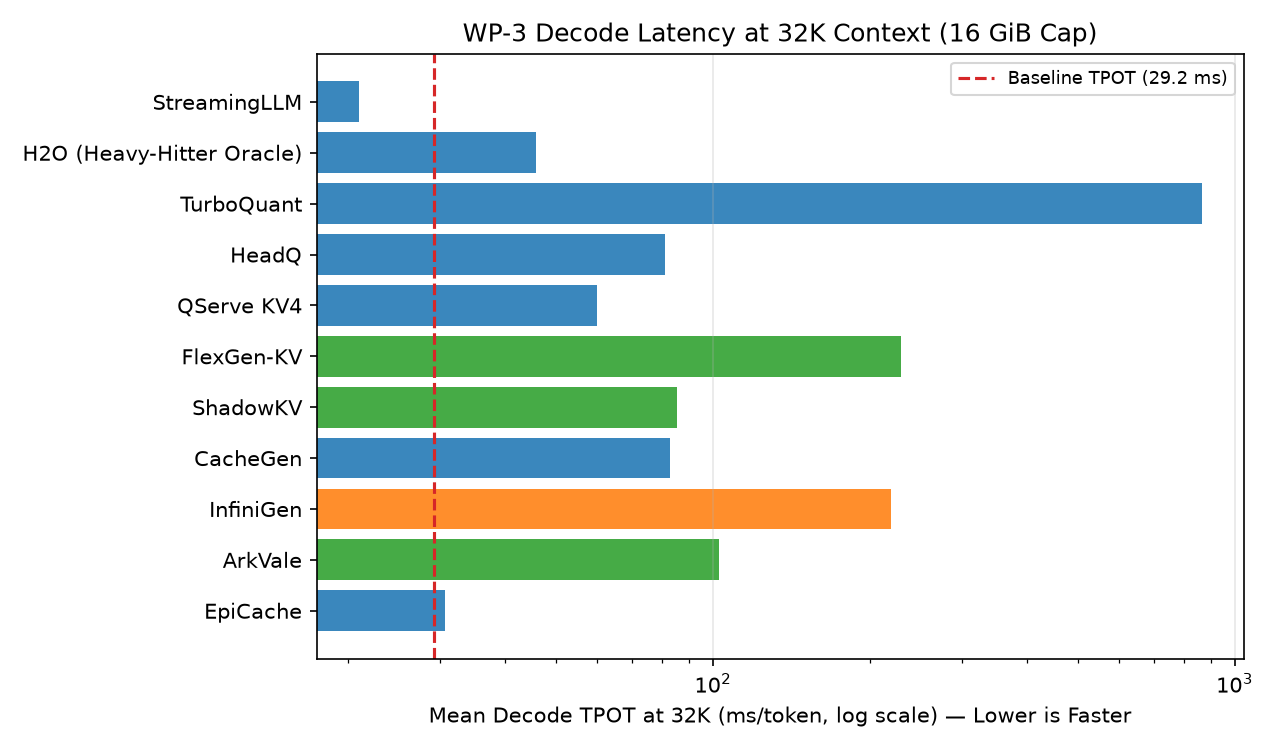
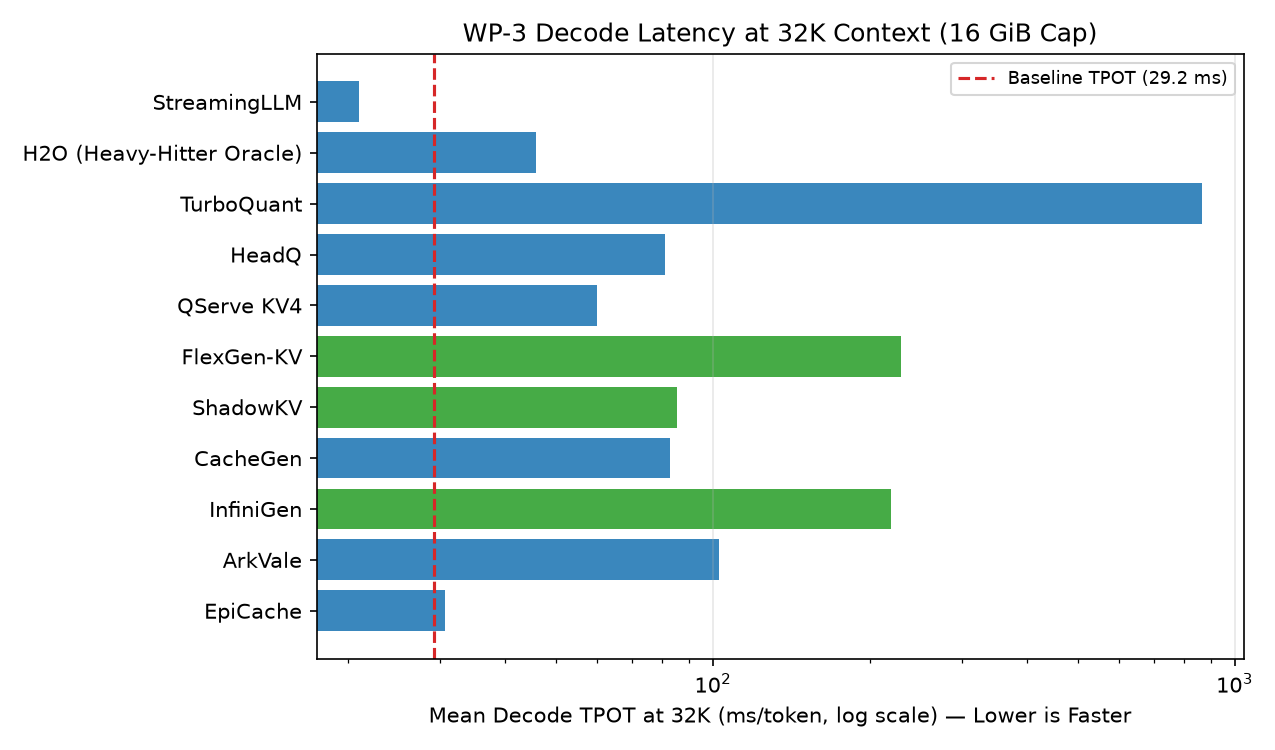
docs(wp3): align axis metadata, refresh manifest checksums, and regenerate reports [WP3-12]

Changed region(s): [[0.2447, 0.644, 0.7035, 0.7973]]

diff --git a/scripts/generate_wp3_report.py b/scripts/generate_wp3_report.py
@@ -177,7 +177,7 @@ TECHNIQUES: list[dict[str, Any]] = [
         "id": "infinigen",
         "name": "InfiniGen",
         "wp": "WP3-9",
-        "primary_axis": "TEMPORAL",
+        "primary_axis": "SPATIAL",
         "axes": ["SPATIAL", "TEMPORAL", "STRUCTURAL"],
         "summary": (
             "InfiniGen speculatively prefetches important KV blocks from CPU memory one layer ahead "
@@ -194,7 +194,7 @@ TECHNIQUES: list[dict[str, Any]] = [
         "id": "arkvale",
         "name": "ArkVale",
         "wp": "WP3-10",
-        "primary_axis": "SPATIAL",
+        "primary_axis": "STRUCTURAL",
         "axes": ["STRUCTURAL", "SPATIAL"],
         "summary": (
             "ArkVale organizes the KV cache into fixed-size pages offloaded to CPU RAM and "
@@ -225,6 +225,21 @@ TECHNIQUES: list[dict[str, Any]] = [
         ),
     },
 ]
+
+
+def resolve_result_path(filename: str) -> Path:
+    """Locate a result JSON across flat results/, runs/wp3/, baselines/, or sibling kv_co-op_hub."""
+    candidates = [
+        RESULTS_DIR / filename,
+        RESULTS_DIR / "runs" / "wp3" / filename,
+        RESULTS_DIR / "baselines" / filename,
+        ROOT.parent / "kv_co-op_hub" / "results" / "runs" / "wp3" / filename,
+        ROOT.parent / "kv_co-op_hub" / "results" / "baselines" / filename,
+    ]
+    for candidate in candidates:
+        if candidate.exists():
+            return candidate
+    return RESULTS_DIR / filename
 
 
 def load_json(path: Path) -> dict[str, Any] | None:
@@ -572,14 +587,17 @@ def write_technique_profile(tech: dict, base_hw: list[dict], base_lm: list[dict]
     fig_dir.mkdir(parents=True, exist_ok=True)
 
     paths = {
-        "hardware": RESULTS_DIR / f"{tid}_hardware_pytorch_16gb.json",
-        "longmem": RESULTS_DIR / f"{tid}_longmem_pytorch_16gb.json",
-        "niah": RESULTS_DIR / f"{tid}_niah_pytorch_16gb.json",
+        "hardware": resolve_result_path(f"{tid}_hardware_pytorch_16gb.json"),
+        "longmem": resolve_result_path(f"{tid}_longmem_pytorch_16gb.json"),
+        "niah": resolve_result_path(f"{tid}_niah_pytorch_16gb.json"),
     }
     hw_json = load_json(paths["hardware"])
     lm_json = load_json(paths["longmem"])
     ni_json = load_json(paths["niah"])
-    manifest = load_json(MANIFESTS_DIR / f"run_manifest_wp3_{tid}.json") or load_json(MANIFESTS_DIR / f"run_manifest_wp3_{tid}_pytorch.json")
+    manifest = (
+        load_json(MANIFESTS_DIR / f"run_manifest_wp3_{tid}_pytorch.json")
+        or load_json(MANIFESTS_DIR / f"run_manifest_wp3_{tid}.json")
+    )
     prov_rows = verify_provenance(tid, paths, manifest)
 
     hw_res = (hw_json or {}).get("results") or None
@@ -958,8 +976,8 @@ def main() -> None:
     PROFILES_DIR.mkdir(parents=True, exist_ok=True)
     FIGURES_DIR.mkdir(parents=True, exist_ok=True)
 
-    base_hw_json = load_json(RESULTS_DIR / "baseline_pytorch_16gb.json")
-    base_lm_json = load_json(RESULTS_DIR / "longmem_baseline_pytorch_16gb.json")
+    base_hw_json = load_json(resolve_result_path("baseline_pytorch_16gb.json"))
+    base_lm_json = load_json(resolve_result_path("longmem_baseline_pytorch_16gb.json"))
     if not base_hw_json or not base_lm_json:
         raise FileNotFoundError("Canonical PyTorch baseline files (baseline_pytorch_16gb.json / longmem_baseline_pytorch_16gb.json) are required.")
 

diff --git a/docs/WP3_CANDIDATE_EXPLORATION_REPORT.md b/docs/WP3_CANDIDATE_EXPLORATION_REPORT.md
@@ -19,8 +19,8 @@ This executive report synthesizes empirical results across all 11 reproduced KV-
 | WP3-6 | **FlexGen-KV** | `SPATIAL` | 8889 | 229.6 | 6565 | 1646964418 | 10.80 | 7.34 | 100% / 100% | 24/99 | 6 | [Profile](wp3_profiles/flexgen_kv.md) |
 | WP3-7 | **ShadowKV** | `SPATIAL` | 14233 | 85.3 | 5325 | 67241955 | 5.32 | 3.85 | 100% / 100% | 22/99 | 3 | [Profile](wp3_profiles/shadowkv.md) |
 | WP3-8 | **CacheGen** | `STRUCTURAL` | 10600 | 82.9 | 4536 | 935016151 | 12.87 | 12.58 | 40% / 80% | 16/99 | 11 | [Profile](wp3_profiles/cachegen.md) |
-| WP3-9 | **InfiniGen** | `TEMPORAL` | 13910 | 219.7 | 20491 | 1829885205 | 11.64 | 6.46 | 100% / 100% | 24/99 | 4 | [Profile](wp3_profiles/infinigen.md) |
-| WP3-10 | **ArkVale** | `SPATIAL` | 9033 | 102.9 | 16614 | 1618383854 | 11.42 | 6.63 | 100% / 100% | 23/99 | 4 | [Profile](wp3_profiles/arkvale.md) |
+| WP3-9 | **InfiniGen** | `SPATIAL` | 13910 | 219.7 | 20491 | 1829885205 | 11.64 | 6.46 | 100% / 100% | 24/99 | 4 | [Profile](wp3_profiles/infinigen.md) |
+| WP3-10 | **ArkVale** | `STRUCTURAL` | 9033 | 102.9 | 16614 | 1618383854 | 11.42 | 6.63 | 100% / 100% | 23/99 | 4 | [Profile](wp3_profiles/arkvale.md) |
 | WP3-11 | **EpiCache** | `STRUCTURAL` | 8567 | 30.6 | 2846 | 442264 | 9.86 | 9.00 | 0% / 0% | 10/99 | 17 | [Profile](wp3_profiles/epicache.md) |
 
 ---
@@ -67,12 +67,12 @@ This executive report synthesizes empirical results across all 11 reproduced KV-
 - **Prominent Upside:** **19.8% lower 32K VRAM** (10600 MB)
 - **Primary Trade-Off:** 32K decode TPOT is **2.84× slower** (82.9 ms/tok); NIAH drops to **40% @2K / 80% @4K**; LongMemEval **16/99** (11 regressions vs. 25 baseline); high PG-19 KL (**12.87**)
 
-### WP3-9: InfiniGen (`TEMPORAL`) — [Full Profile](wp3_profiles/infinigen.md)
+### WP3-9: InfiniGen (`SPATIAL`) — [Full Profile](wp3_profiles/infinigen.md)
 - **Mechanism:** InfiniGen speculatively prefetches important KV blocks from CPU memory one layer ahead by using low-rank key proxies and threshold-based importance prediction to overlap host-to-device transfers with layer computation.
 - **Prominent Upside:** **100% NIAH** exact-match retrieval (2K & 4K)
 - **Primary Trade-Off:** **+5.2% higher 32K VRAM** (13910 MB vs. 13225 MB baseline); 32K decode TPOT is **7.53× slower** (219.7 ms/tok); LongMemEval **24/99** (4 regressions vs. 25 baseline)
 
-### WP3-10: ArkVale (`SPATIAL`) — [Full Profile](wp3_profiles/arkvale.md)
+### WP3-10: ArkVale (`STRUCTURAL`) — [Full Profile](wp3_profiles/arkvale.md)
 - **Mechanism:** ArkVale organizes the KV cache into fixed-size pages offloaded to CPU RAM and maintains Axis-Aligned Bounding Box (AABB) geometric digests on the GPU to recall and page-in only the relevant KV pages per query.
 - **Prominent Upside:** **31.7% lower 32K VRAM** (9033 MB); **100% NIAH** exact-match retrieval (2K & 4K)
 - **Primary Trade-Off:** 32K decode TPOT is **3.53× slower** (102.9 ms/tok); LongMemEval **23/99** (4 regressions vs. 25 baseline)

diff --git a/docs/wp3_profiles/qserve_kv4.md b/docs/wp3_profiles/qserve_kv4.md
@@ -2,7 +2,7 @@
 
 **Primary Axis:** `STRUCTURAL` | **All Axes:** `STRUCTURAL` | **Model:** `Qwen3-4B-Instruct-2507` (16.0 GiB Cap, PyTorch Native SDPA)
 
-**Artifact Provenance (SHA-256):** `qserve_kv4_hardware_pytorch_16gb.json`: `UPDATED (post-manifest re-run)` (`8f1d2a35aa6e…`) | `qserve_kv4_longmem_pytorch_16gb.json`: `UPDATED (post-manifest re-run)` (`89427071103f…`) | `qserve_kv4_niah_pytorch_16gb.json`: `UPDATED (post-manifest re-run)` (`6400f386d866…`)
+**Artifact Provenance (SHA-256):** `qserve_kv4_hardware_pytorch_16gb.json`: `VERIFIED` (`8f1d2a35aa6e…`) | `qserve_kv4_longmem_pytorch_16gb.json`: `VERIFIED` (`ea1f7f63e45d…`) | `qserve_kv4_niah_pytorch_16gb.json`: `VERIFIED` (`6400f386d866…`)
 
 ---
 
@@ -79,12 +79,12 @@ QServe KV4 performs group-wise 4-bit symmetric/asymmetric KV-cache quantization 
 
 | Context Tier | Acc | F1 | Pass / Total | Quality Regressions | Baseline Limitations | Mean Retention | Eff. Bitwidth |
 |---:|---:|---:|:---:|---:|---:|---:|---:|
-| 512 | 0.20 | 0.13 | 2/10 | 0 | 8 | 1.00 | 16.00 |
-| 1024 | 0.30 | 0.12 | 3/10 | 0 | 7 | 1.00 | 16.00 |
-| 2048 | 0.25 | 0.12 | 5/20 | 1 | 14 | 1.00 | 16.00 |
-| 4096 | 0.39 | 0.10 | 7/18 | 0 | 11 | 1.00 | 16.00 |
-| 8192 | 0.31 | 0.08 | 8/26 | 0 | 18 | 1.00 | 16.00 |
-| 16384 | 0.20 | 0.09 | 3/15 | 1 | 11 | 1.00 | 16.00 |
+| 512 | 0.20 | 0.13 | 2/10 | 0 | 8 | 1.00 | 4.50 |
+| 1024 | 0.30 | 0.12 | 3/10 | 0 | 7 | 1.00 | 4.50 |
+| 2048 | 0.25 | 0.12 | 5/20 | 1 | 14 | 1.00 | 4.50 |
+| 4096 | 0.39 | 0.10 | 7/18 | 0 | 11 | 1.00 | 4.50 |
+| 8192 | 0.31 | 0.08 | 8/26 | 0 | 18 | 1.00 | 4.50 |
+| 16384 | 0.20 | 0.09 | 3/15 | 1 | 11 | 1.00 | 4.50 |
 
 #### 5-Capability Accuracy Breakdown (Sample-Weighted Across Context Tiers)
 

diff --git a/docs/wp3_profiles/turboquant.md b/docs/wp3_profiles/turboquant.md
@@ -2,7 +2,7 @@
 
 **Primary Axis:** `STRUCTURAL` | **All Axes:** `STRUCTURAL` | **Model:** `Qwen3-4B-Instruct-2507` (16.0 GiB Cap, PyTorch Native SDPA)
 
-**Artifact Provenance (SHA-256):** `turboquant_hardware_pytorch_16gb.json`: `UPDATED (post-manifest re-run)` (`6dfdb5bbd319…`) | `turboquant_longmem_pytorch_16gb.json`: `UPDATED (post-manifest re-run)` (`0864eb6d8baf…`) | `turboquant_niah_pytorch_16gb.json`: `UPDATED (post-manifest re-run)` (`08562dd7526b…`)
+**Artifact Provenance (SHA-256):** `turboquant_hardware_pytorch_16gb.json`: `VERIFIED` (`6dfdb5bbd319…`) | `turboquant_longmem_pytorch_16gb.json`: `VERIFIED` (`df8c8f98d862…`) | `turboquant_niah_pytorch_16gb.json`: `VERIFIED` (`08562dd7526b…`)
 
 ---
 
@@ -79,12 +79,12 @@ TurboQuant applies asymmetric low-bit quantization to Keys and Values, using a W
 
 | Context Tier | Acc | F1 | Pass / Total | Quality Regressions | Baseline Limitations | Mean Retention | Eff. Bitwidth |
 |---:|---:|---:|:---:|---:|---:|---:|---:|
-| 512 | 0.20 | 0.10 | 2/10 | 0 | 8 | 1.00 | 16.00 |
-| 1024 | 0.30 | 0.12 | 3/10 | 0 | 7 | 1.00 | 16.00 |
-| 2048 | 0.25 | 0.11 | 5/20 | 1 | 14 | 1.00 | 16.00 |
-| 4096 | 0.33 | 0.08 | 6/18 | 2 | 10 | 1.00 | 16.00 |
-| 8192 | 0.35 | 0.10 | 9/26 | 1 | 16 | 1.00 | 16.00 |
-| 16384 | 0.13 | 0.11 | 2/15 | 1 | 12 | 1.00 | 16.00 |
+| 512 | 0.20 | 0.10 | 2/10 | 0 | 8 | 1.00 | 4.38 |
+| 1024 | 0.30 | 0.12 | 3/10 | 0 | 7 | 1.00 | 4.38 |
+| 2048 | 0.25 | 0.11 | 5/20 | 1 | 14 | 1.00 | 4.38 |
+| 4096 | 0.33 | 0.08 | 6/18 | 2 | 10 | 1.00 | 4.38 |
+| 8192 | 0.35 | 0.10 | 9/26 | 1 | 16 | 1.00 | 4.38 |
+| 16384 | 0.13 | 0.11 | 2/15 | 1 | 12 | 1.00 | 4.38 |
 
 #### 5-Capability Accuracy Breakdown (Sample-Weighted Across Context Tiers)
 

diff --git a/docs/wp3_profiles/cachegen.md b/docs/wp3_profiles/cachegen.md
@@ -2,7 +2,7 @@
 
 **Primary Axis:** `STRUCTURAL` | **All Axes:** `STRUCTURAL, SPATIAL` | **Model:** `Qwen3-4B-Instruct-2507` (16.0 GiB Cap, PyTorch Native SDPA)
 
-**Artifact Provenance (SHA-256):** `cachegen_hardware_pytorch_16gb.json`: `UPDATED (post-manifest re-run)` (`acc433feceac…`) | `cachegen_longmem_pytorch_16gb.json`: `UPDATED (post-manifest re-run)` (`d555aa946243…`) | `cachegen_niah_pytorch_16gb.json`: `UPDATED (post-manifest re-run)` (`67b12f9ee081…`)
+**Artifact Provenance (SHA-256):** `cachegen_hardware_pytorch_16gb.json`: `VERIFIED` (`acc433feceac…`) | `cachegen_longmem_pytorch_16gb.json`: `VERIFIED` (`409fbe1a671a…`) | `cachegen_niah_pytorch_16gb.json`: `VERIFIED` (`67b12f9ee081…`)
 
 ---
 
@@ -79,12 +79,12 @@ CacheGen encodes KV tensors using anchor-delta compression (storing periodic anc
 
 | Context Tier | Acc | F1 | Pass / Total | Quality Regressions | Baseline Limitations | Mean Retention | Eff. Bitwidth |
 |---:|---:|---:|:---:|---:|---:|---:|---:|
-| 512 | 0.20 | 0.06 | 2/10 | 1 | 7 | 1.00 | 16.00 |
-| 1024 | 0.10 | 0.04 | 1/10 | 2 | 7 | 1.00 | 16.00 |
-| 2048 | 0.00 | 0.06 | 0/20 | 5 | 15 | 1.00 | 16.00 |
-| 4096 | 0.33 | 0.09 | 6/18 | 1 | 11 | 1.00 | 16.00 |
-| 8192 | 0.23 | 0.08 | 6/26 | 0 | 20 | 1.00 | 16.00 |
-| 16384 | 0.07 | 0.07 | 1/15 | 2 | 12 | 1.00 | 16.00 |
+| 512 | 0.20 | 0.06 | 2/10 | 1 | 7 | 1.00 | 6.39 |
+| 1024 | 0.10 | 0.04 | 1/10 | 2 | 7 | 1.00 | 6.39 |
+| 2048 | 0.00 | 0.06 | 0/20 | 5 | 15 | 1.00 | 6.39 |
+| 4096 | 0.33 | 0.09 | 6/18 | 1 | 11 | 1.00 | 6.39 |
+| 8192 | 0.23 | 0.08 | 6/26 | 0 | 20 | 1.00 | 6.39 |
+| 16384 | 0.07 | 0.07 | 1/15 | 2 | 12 | 1.00 | 6.39 |
 
 #### 5-Capability Accuracy Breakdown (Sample-Weighted Across Context Tiers)
 

diff --git a/docs/wp3_profiles/headq.md b/docs/wp3_profiles/headq.md
@@ -2,7 +2,7 @@
 
 **Primary Axis:** `STRUCTURAL` | **All Axes:** `STRUCTURAL` | **Model:** `Qwen3-4B-Instruct-2507` (16.0 GiB Cap, PyTorch Native SDPA)
 
-**Artifact Provenance (SHA-256):** `headq_hardware_pytorch_16gb.json`: `UPDATED (post-manifest re-run)` (`8dc8e382da4d…`) | `headq_longmem_pytorch_16gb.json`: `UPDATED (post-manifest re-run)` (`86a8bb1a763f…`) | `headq_niah_pytorch_16gb.json`: `UPDATED (post-manifest re-run)` (`33c8f7aead57…`)
+**Artifact Provenance (SHA-256):** `headq_hardware_pytorch_16gb.json`: `VERIFIED` (`8dc8e382da4d…`) | `headq_longmem_pytorch_16gb.json`: `VERIFIED` (`7f8276616601…`) | `headq_niah_pytorch_16gb.json`: `VERIFIED` (`33c8f7aead57…`)
 
 ---
 
@@ -79,12 +79,12 @@ HeadQ compresses Keys aggressively down to 2 bits while storing Values at 4 bits
 
 | Context Tier | Acc | F1 | Pass / Total | Quality Regressions | Baseline Limitations | Mean Retention | Eff. Bitwidth |
 |---:|---:|---:|:---:|---:|---:|---:|---:|
-| 512 | 0.00 | 0.01 | 0/10 | 2 | 8 | 1.00 | 16.00 |
-| 1024 | 0.00 | 0.00 | 0/10 | 3 | 7 | 1.00 | 16.00 |
-| 2048 | 0.00 | 0.00 | 0/20 | 5 | 15 | 1.00 | 16.00 |
-| 4096 | 0.00 | 0.00 | 0/18 | 7 | 11 | 1.00 | 16.00 |
-| 8192 | 0.00 | 0.01 | 0/26 | 5 | 21 | 1.00 | 16.00 |
-| 16384 | 0.00 | 0.00 | 0/15 | 3 | 12 | 1.00 | 16.00 |
+| 512 | 0.00 | 0.01 | 0/10 | 2 | 8 | 1.00 | 3.25 |
+| 1024 | 0.00 | 0.00 | 0/10 | 3 | 7 | 1.00 | 3.25 |
+| 2048 | 0.00 | 0.00 | 0/20 | 5 | 15 | 1.00 | 3.25 |
+| 4096 | 0.00 | 0.00 | 0/18 | 7 | 11 | 1.00 | 3.25 |
+| 8192 | 0.00 | 0.01 | 0/26 | 5 | 21 | 1.00 | 3.25 |
+| 16384 | 0.00 | 0.00 | 0/15 | 3 | 12 | 1.00 | 3.25 |
 
 #### 5-Capability Accuracy Breakdown (Sample-Weighted Across Context Tiers)
 

diff --git a/docs/wp3_profiles/infinigen.md b/docs/wp3_profiles/infinigen.md
@@ -1,8 +1,8 @@
 # WP3-9: InfiniGen
 
-**Primary Axis:** `TEMPORAL` | **All Axes:** `SPATIAL, TEMPORAL, STRUCTURAL` | **Model:** `Qwen3-4B-Instruct-2507` (16.0 GiB Cap, PyTorch Native SDPA)
+**Primary Axis:** `SPATIAL` | **All Axes:** `SPATIAL, TEMPORAL, STRUCTURAL` | **Model:** `Qwen3-4B-Instruct-2507` (16.0 GiB Cap, PyTorch Native SDPA)
 
-**Artifact Provenance (SHA-256):** `infinigen_hardware_pytorch_16gb.json`: `UPDATED (post-manifest re-run)` (`85ad425a18e7…`) | `infinigen_longmem_pytorch_16gb.json`: `UPDATED (post-manifest re-run)` (`c3d9ece137f4…`) | `infinigen_niah_pytorch_16gb.json`: `UPDATED (post-manifest re-run)` (`3edd0b98a4cc…`)
+**Artifact Provenance (SHA-256):** `infinigen_hardware_pytorch_16gb.json`: `VERIFIED` (`85ad425a18e7…`) | `infinigen_longmem_pytorch_16gb.json`: `VERIFIED` (`c3d9ece137f4…`) | `infinigen_niah_pytorch_16gb.json`: `VERIFIED` (`3edd0b98a4cc…`)
 
 ---
 

diff --git a/docs/wp3_profiles/arkvale.md b/docs/wp3_profiles/arkvale.md
@@ -1,8 +1,8 @@
 # WP3-10: ArkVale
 
-**Primary Axis:** `SPATIAL` | **All Axes:** `STRUCTURAL, SPATIAL` | **Model:** `Qwen3-4B-Instruct-2507` (16.0 GiB Cap, PyTorch Native SDPA)
+**Primary Axis:** `STRUCTURAL` | **All Axes:** `STRUCTURAL, SPATIAL` | **Model:** `Qwen3-4B-Instruct-2507` (16.0 GiB Cap, PyTorch Native SDPA)
 
-**Artifact Provenance (SHA-256):** `arkvale_hardware_pytorch_16gb.json`: `UPDATED (post-manifest re-run)` (`ba4c2ed121e1…`) | `arkvale_longmem_pytorch_16gb.json`: `UPDATED (post-manifest re-run)` (`afd450e7b272…`) | `arkvale_niah_pytorch_16gb.json`: `UPDATED (post-manifest re-run)` (`cc37c564cb5b…`)
+**Artifact Provenance (SHA-256):** `arkvale_hardware_pytorch_16gb.json`: `VERIFIED` (`ba4c2ed121e1…`) | `arkvale_longmem_pytorch_16gb.json`: `VERIFIED` (`afd450e7b272…`) | `arkvale_niah_pytorch_16gb.json`: `VERIFIED` (`cc37c564cb5b…`)
 
 ---
 

diff --git a/docs/wp3_profiles/flexgen_kv.md b/docs/wp3_profiles/flexgen_kv.md
@@ -2,7 +2,7 @@
 
 **Primary Axis:** `SPATIAL` | **All Axes:** `SPATIAL, STRUCTURAL` | **Model:** `Qwen3-4B-Instruct-2507` (16.0 GiB Cap, PyTorch Native SDPA)
 
-**Artifact Provenance (SHA-256):** `flexgen_kv_hardware_pytorch_16gb.json`: `UPDATED (post-manifest re-run)` (`bd79f1dd9965…`) | `flexgen_kv_longmem_pytorch_16gb.json`: `UPDATED (post-manifest re-run)` (`6861240031c7…`) | `flexgen_kv_niah_pytorch_16gb.json`: `UPDATED (post-manifest re-run)` (`6ff0ae38d44b…`)
+**Artifact Provenance (SHA-256):** `flexgen_kv_hardware_pytorch_16gb.json`: `VERIFIED` (`bd79f1dd9965…`) | `flexgen_kv_longmem_pytorch_16gb.json`: `VERIFIED` (`6861240031c7…`) | `flexgen_kv_niah_pytorch_16gb.json`: `VERIFIED` (`6ff0ae38d44b…`)
 
 ---
 

diff --git a/docs/wp3_profiles/shadowkv.md b/docs/wp3_profiles/shadowkv.md
@@ -2,7 +2,7 @@
 
 **Primary Axis:** `SPATIAL` | **All Axes:** `SPATIAL, STRUCTURAL, TEMPORAL` | **Model:** `Qwen3-4B-Instruct-2507` (16.0 GiB Cap, PyTorch Native SDPA)
 
-**Artifact Provenance (SHA-256):** `shadowkv_hardware_pytorch_16gb.json`: `UPDATED (post-manifest re-run)` (`6a7bbf2b1eae…`) | `shadowkv_longmem_pytorch_16gb.json`: `UPDATED (post-manifest re-run)` (`a9d68344f853…`) | `shadowkv_niah_pytorch_16gb.json`: `UPDATED (post-manifest re-run)` (`fa78e110f6c6…`)
+**Artifact Provenance (SHA-256):** `shadowkv_hardware_pytorch_16gb.json`: `VERIFIED` (`6a7bbf2b1eae…`) | `shadowkv_longmem_pytorch_16gb.json`: `VERIFIED` (`a9d68344f853…`) | `shadowkv_niah_pytorch_16gb.json`: `VERIFIED` (`fa78e110f6c6…`)
 
 ---
 

diff --git a/docs/wp3_profiles/epicache.md b/docs/wp3_profiles/epicache.md
@@ -2,7 +2,7 @@
 
 **Primary Axis:** `STRUCTURAL` | **All Axes:** `STRUCTURAL, SPATIAL` | **Model:** `Qwen3-4B-Instruct-2507` (16.0 GiB Cap, PyTorch Native SDPA)
 
-**Artifact Provenance (SHA-256):** `epicache_hardware_pytorch_16gb.json`: `UPDATED (post-manifest re-run)` (`f2e7550025d3…`) | `epicache_longmem_pytorch_16gb.json`: `UPDATED (post-manifest re-run)` (`0b7b5b00cd9d…`) | `epicache_niah_pytorch_16gb.json`: `UPDATED (post-manifest re-run)` (`fc945c375ed7…`)
+**Artifact Provenance (SHA-256):** `epicache_hardware_pytorch_16gb.json`: `VERIFIED` (`f2e7550025d3…`) | `epicache_longmem_pytorch_16gb.json`: `VERIFIED` (`0b7b5b00cd9d…`) | `epicache_niah_pytorch_16gb.json`: `VERIFIED` (`fc945c375ed7…`)
 
 ---
 

diff --git a/docs/wp3_profiles/streamingllm.md b/docs/wp3_profiles/streamingllm.md
@@ -2,7 +2,7 @@
 
 **Primary Axis:** `STRUCTURAL` | **All Axes:** `STRUCTURAL` | **Model:** `Qwen3-4B-Instruct-2507` (16.0 GiB Cap, PyTorch Native SDPA)
 
-**Artifact Provenance (SHA-256):** `streamingllm_hardware_pytorch_16gb.json`: `UPDATED (post-manifest re-run)` (`05bd5adb4d50…`) | `streamingllm_longmem_pytorch_16gb.json`: `UPDATED (post-manifest re-run)` (`fd5ddd1381cf…`) | `streamingllm_niah_pytorch_16gb.json`: `UNMANIFESTED` (`5f01cee56d9e…`)
+**Artifact Provenance (SHA-256):** `streamingllm_hardware_pytorch_16gb.json`: `VERIFIED` (`05bd5adb4d50…`) | `streamingllm_longmem_pytorch_16gb.json`: `VERIFIED` (`fd5ddd1381cf…`) | `streamingllm_niah_pytorch_16gb.json`: `VERIFIED` (`5f01cee56d9e…`)
 
 ---
 
